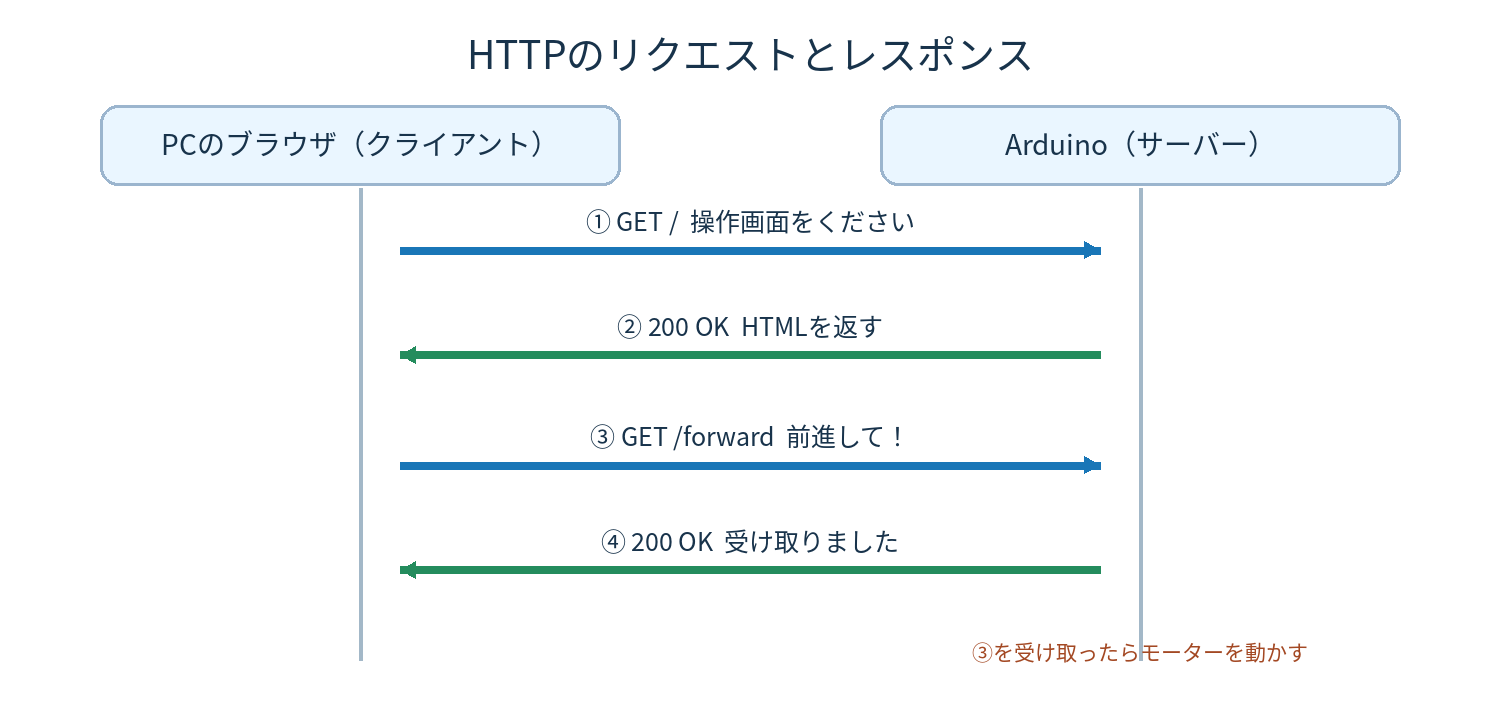
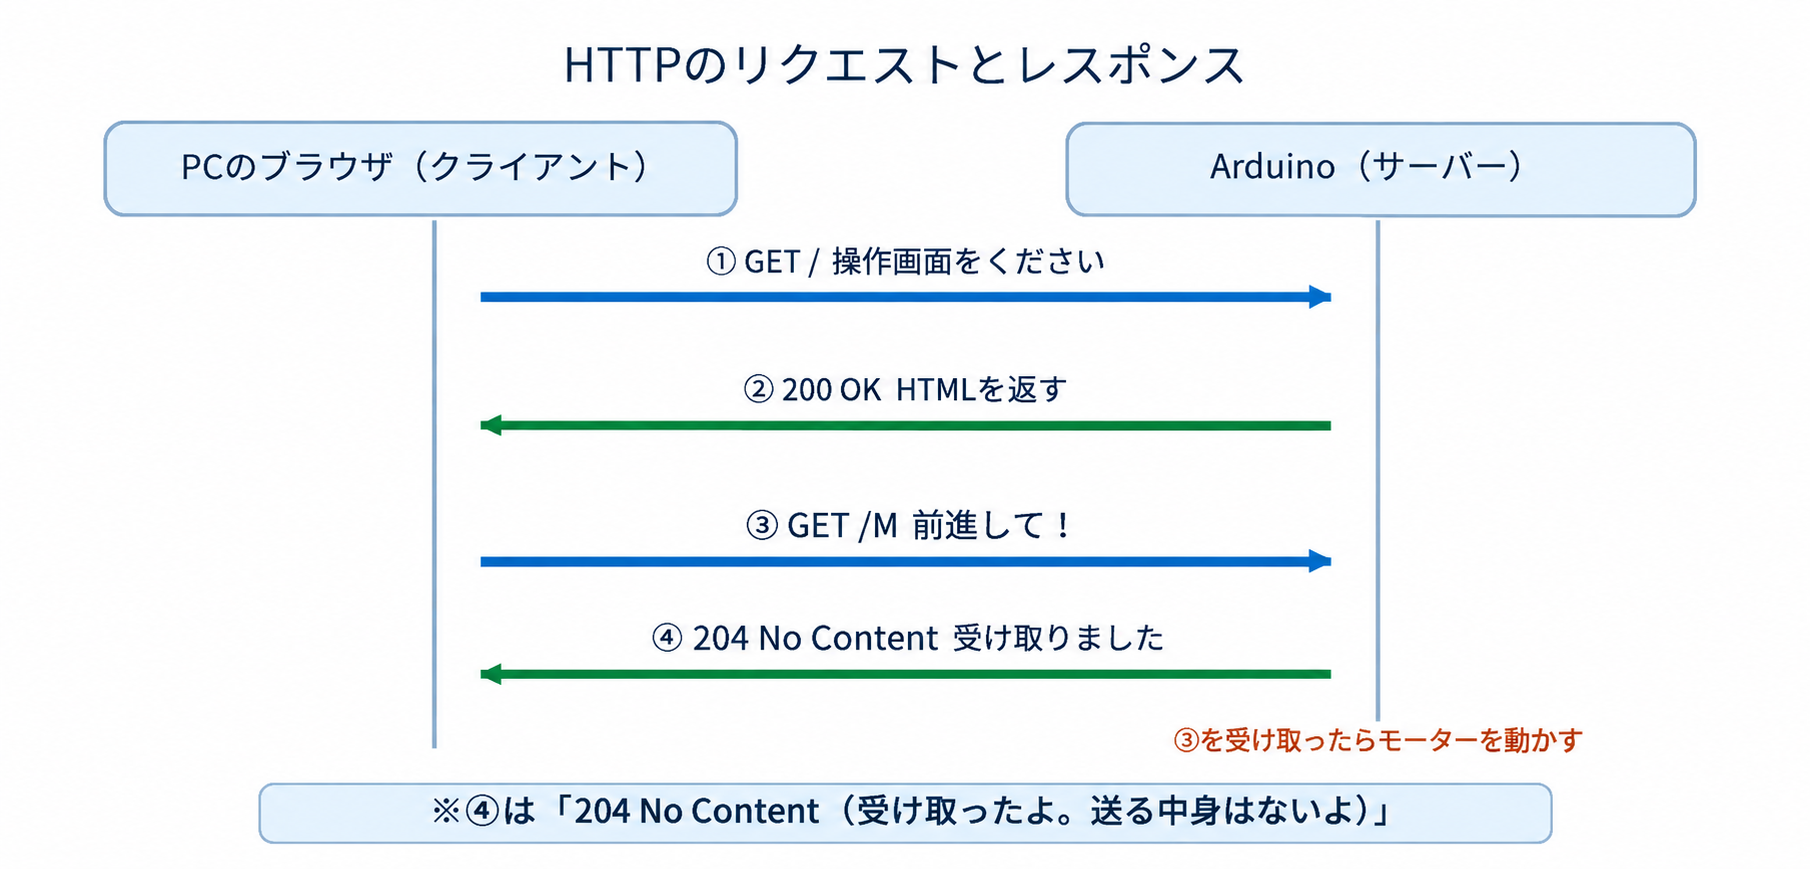
レッスン42：HTTPの説明図を /M・204 No Content に合わせて差しかえ

diff --git a/Lesson_42/Lesson_42.md b/Lesson_42/Lesson_42.md
@@ -669,4 +669,4 @@ Wi-Fiに接続中: （教室のWi-Fiの名前）
 
 ---
 
-*講師向けメモ：Wi-FiはSTAモード（教室のルーター経由）で接続します。ESP8266 は 2.4GHz 帯のみ対応です。ゲスト用Wi-Fiなどで端末間通信が禁止（クライアント分離）されていると、PCからロボットに届きません。Wi-Fiの名前とパスワードは生徒のプログラムに書かれるので、生徒に伝えてよいネットワークを使ってください。Wi-Fiシールドの初期化はレッスン18と同じ手順（115200bpsで `AT+CIOBAUD=9600` を送ってから9600bpsで通信）です。完成例 `sample/lesson_42_sample` は、WiFiEsp 2.2.2・IRremote 2.2.3 で Arduino Uno 向けにコンパイルでき、フラッシュ69%・RAM47%（グローバル変数978バイト）を使います。命令はタブレットアプリと同じ1文字（`/M` など）にして、`bluetooth.h` と同じ switch 文で処理しています。応答を速くするため、リクエストの1行目を読んだ時点で命令を実行し、命令には `204 No Content` だけを返します（操作画面のHTMLは `/` のときだけ送る）。安全のため、命令から `MOVE_TIME`（500ミリ秒）で自動停止します（`millis()` による判定で、`delay()` は使っていません）。説明図「HTTPのリクエストとレスポンス」の③は、本文に合わせて `GET /M` への差しかえが必要です。また、レッスン41のテキストどおりに分割したプログラムに、このテキストの手順（ミッション4〜7）を当てはめると、ミッション7で `'BTSerial' was not declared in this scope` が出て、その1行をコメントアウトするとコンパイルできることを確認済みです。弾に当たると `deadAlarm()` の無限ループに入るため、それ以降はブラウザからの操作にも反応しなくなります（レッスン21と同じルール）。*
+*講師向けメモ：Wi-FiはSTAモード（教室のルーター経由）で接続します。ESP8266 は 2.4GHz 帯のみ対応です。ゲスト用Wi-Fiなどで端末間通信が禁止（クライアント分離）されていると、PCからロボットに届きません。Wi-Fiの名前とパスワードは生徒のプログラムに書かれるので、生徒に伝えてよいネットワークを使ってください。Wi-Fiシールドの初期化はレッスン18と同じ手順（115200bpsで `AT+CIOBAUD=9600` を送ってから9600bpsで通信）です。完成例 `sample/lesson_42_sample` は、WiFiEsp 2.2.2・IRremote 2.2.3 で Arduino Uno 向けにコンパイルでき、フラッシュ69%・RAM47%（グローバル変数978バイト）を使います。命令はタブレットアプリと同じ1文字（`/M` など）にして、`bluetooth.h` と同じ switch 文で処理しています。応答を速くするため、リクエストの1行目を読んだ時点で命令を実行し、命令には `204 No Content` だけを返します（操作画面のHTMLは `/` のときだけ送る）。安全のため、命令から `MOVE_TIME`（500ミリ秒）で自動停止します（`millis()` による判定で、`delay()` は使っていません）。また、レッスン41のテキストどおりに分割したプログラムに、このテキストの手順（ミッション4〜7）を当てはめると、ミッション7で `'BTSerial' was not declared in this scope` が出て、その1行をコメントアウトするとコンパイルできることを確認済みです。弾に当たると `deadAlarm()` の無限ループに入るため、それ以降はブラウザからの操作にも反応しなくなります（レッスン21と同じルール）。*
